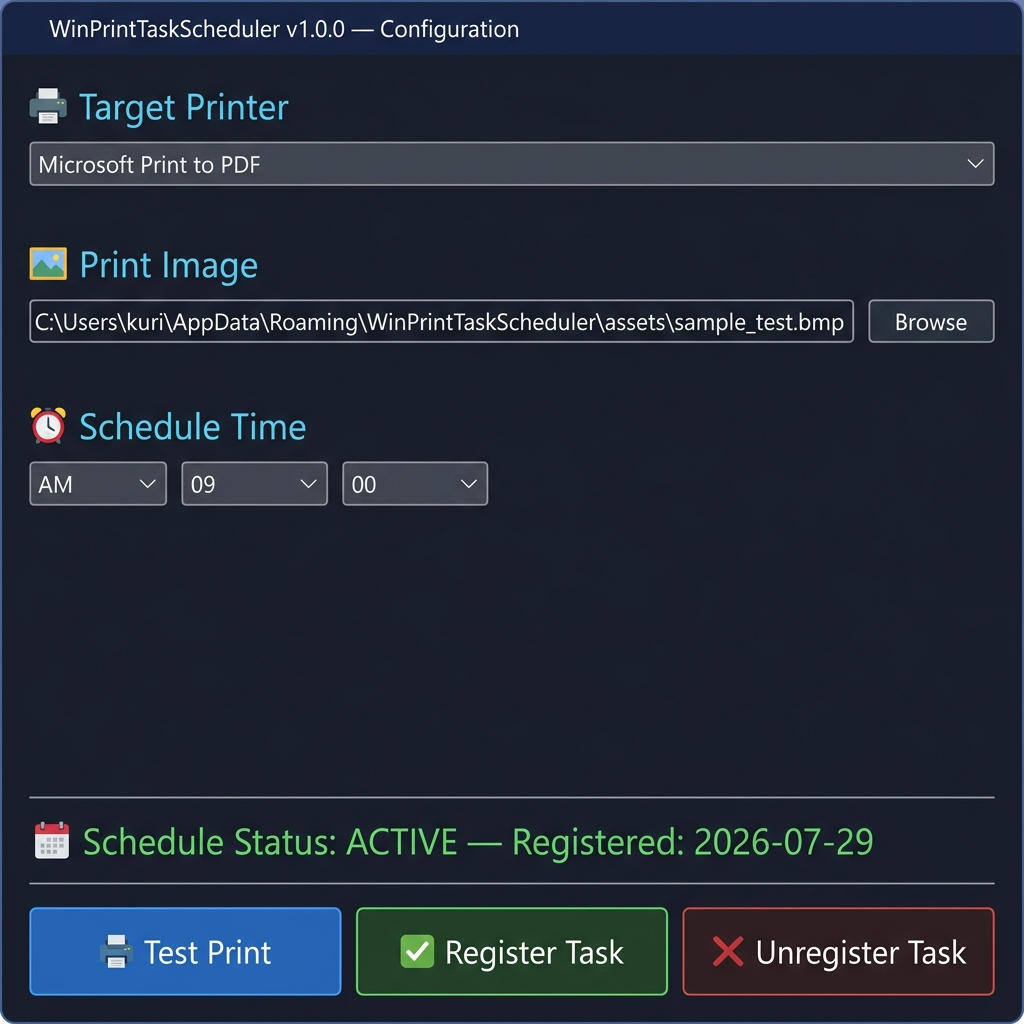
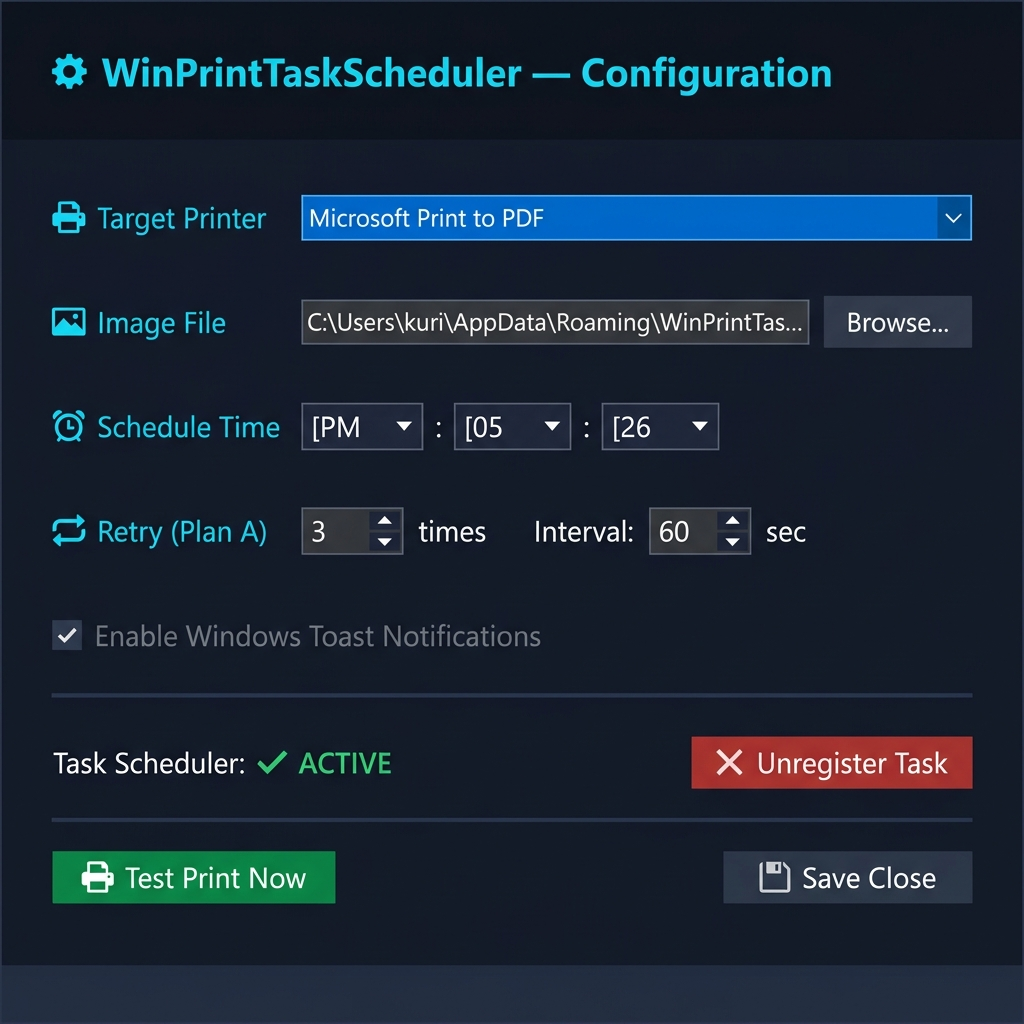
feat: 실제 실행 UI 스크린샷으로 교체 + 미리보기 섹션 최상단 이동 + callout 설명 업데이트

diff --git a/wintaskscheduler/index.html b/wintaskscheduler/index.html
@@ -42,7 +42,6 @@
         <strong>100% 무의존성 단일 .exe 파일</strong> 스케줄러입니다.<br>
         프린터 헤드 막힘 방지 및 노즐 유지보수를 완전 자동화합니다.
       </p>
-
       <div class="cta-group">
         <a href="releases/WinPrintTaskScheduler_v1.0.0.zip" class="btn btn-primary" id="btn-download-zip">
           📦 v1.0.0 압축 패키지 다운로드 (.zip)
@@ -51,7 +50,76 @@
     </div>
   </section>
 
-  <!-- Features -->
+  <!-- ① UI Preview — FIRST SECTION after hero -->
+  <section class="ui-preview" id="preview">
+    <div class="container">
+      <div class="section-title">
+        <h2>실행 화면 미리보기</h2>
+        <p>더블 클릭으로 열리는 환경 설정 창의 각 항목을 확인하세요.</p>
+      </div>
+
+      <div class="preview-wrapper">
+        <!-- Screenshot -->
+        <div class="screenshot-box">
+          <div class="screenshot-titlebar">
+            <span class="titlebar-dot red"></span>
+            <span class="titlebar-dot yellow"></span>
+            <span class="titlebar-dot green"></span>
+            <span class="titlebar-title">WinPrintTaskScheduler v1.0.0 — Configuration</span>
+          </div>
+          <img src="images/config_ui.png" alt="WinPrintTaskScheduler 설정 화면" class="screenshot-img">
+        </div>
+
+        <!-- Callout List -->
+        <div class="callout-list">
+          <div class="callout-item">
+            <div class="callout-num">①</div>
+            <div class="callout-body">
+              <strong>🖨 Target Printer (프린터 선택)</strong>
+              <p>PC에 연결된 모든 프린터 목록이 드롭다운으로 표시됩니다. 자동 인쇄를 수행할 대상 프린터를 선택하세요.</p>
+            </div>
+          </div>
+          <div class="callout-item">
+            <div class="callout-num">②</div>
+            <div class="callout-body">
+              <strong>🖼 Image File (인쇄 이미지)</strong>
+              <p><b>Browse</b> 버튼으로 외부 이미지를 선택하면 <code>%AppData%\assets</code>로 자동 복사되어 원본이 삭제되어도 영구 사용 가능합니다.</p>
+            </div>
+          </div>
+          <div class="callout-item">
+            <div class="callout-num">③</div>
+            <div class="callout-body">
+              <strong>⏰ Schedule Time (자동 실행 시각)</strong>
+              <p><b>AM/PM</b>, <b>시(01~12)</b>, <b>분(00~59)</b> 세 드롭다운으로 매일 자동 인쇄가 실행될 시각을 직관적으로 지정합니다.</p>
+            </div>
+          </div>
+          <div class="callout-item">
+            <div class="callout-num">④</div>
+            <div class="callout-body">
+              <strong>🔁 Retry / Plan A (재시도 설정)</strong>
+              <p>프린터 오류 시 재시도 횟수(<b>times</b>)와 재시도 간격(<b>Interval</b> sec)을 설정합니다. 프린터가 일시적으로 오프라인이어도 자동 복구됩니다.</p>
+            </div>
+          </div>
+          <div class="callout-item">
+            <div class="callout-num">⑤</div>
+            <div class="callout-body">
+              <strong>📅 Task Scheduler Status (스케줄 상태)</strong>
+              <p>녹색 <b>✅ ACTIVE</b>: 스케줄이 등록되어 매일 자동 인쇄 중.<br>빨간 <b>⛔ INACTIVE</b>: 미등록 상태, Register Task 버튼으로 등록하세요.</p>
+            </div>
+          </div>
+          <div class="callout-item">
+            <div class="callout-num">⑥</div>
+            <div class="callout-body">
+              <strong>🖨 Test Print / 💾 Save & Close</strong>
+              <p><b>Test Print Now</b>: 지금 즉시 테스트 인쇄를 실행합니다.<br><b>Save & Close</b>: 변경된 설정을 저장하고 창을 닫습니다.</p>
+            </div>
+          </div>
+        </div>
+      </div>
+    </div>
+  </section>
+
+  <!-- ② Features -->
   <section class="features" id="features">
     <div class="container">
       <div class="section-title">
@@ -94,7 +162,7 @@
     </div>
   </section>
 
-  <!-- How to Use -->
+  <!-- ③ How to Use -->
   <section class="workflow" id="workflow">
     <div class="container">
       <div class="section-title">
@@ -121,75 +189,6 @@
           <div class="step-num">04</div>
           <h3>[Register Task] 클릭</h3>
           <p>스케줄 등록 즉시 매일 지정 시각에 자동 인쇄가 시작됩니다.</p>
-        </div>
-      </div>
-    </div>
-  </section>
-
-  <!-- UI Preview Section -->
-  <section class="ui-preview" id="preview">
-    <div class="container">
-      <div class="section-title">
-        <h2>실행 화면 미리보기</h2>
-        <p>더블 클릭으로 열리는 환경 설정 창의 각 항목을 확인하세요.</p>
-      </div>
-
-      <div class="preview-wrapper">
-        <!-- Screenshot -->
-        <div class="screenshot-box">
-          <div class="screenshot-titlebar">
-            <span class="titlebar-dot red"></span>
-            <span class="titlebar-dot yellow"></span>
-            <span class="titlebar-dot green"></span>
-            <span class="titlebar-title">WinPrintTaskScheduler v1.0.0 — Configuration</span>
-          </div>
-          <img src="images/config_ui.png" alt="WinPrintTaskScheduler 설정 화면" class="screenshot-img">
-        </div>
-
-        <!-- Callout List -->
-        <div class="callout-list">
-          <div class="callout-item">
-            <div class="callout-num">①</div>
-            <div class="callout-body">
-              <strong>🖨 Target Printer (프린터 선택)</strong>
-              <p>PC에 연결된 모든 프린터 목록이 드롭다운으로 표시됩니다. 자동 인쇄를 수행할 대상 프린터를 선택하세요.</p>
-            </div>
-          </div>
-          <div class="callout-item">
-            <div class="callout-num">②</div>
-            <div class="callout-body">
-              <strong>🖼 Print Image (인쇄 이미지)</strong>
-              <p>인쇄할 이미지 파일을 지정합니다. <b>Browse</b> 버튼으로 외부 이미지를 선택하면 내부 안전 공간(<code>%AppData%\assets</code>)으로 자동 복사되어 원본이 삭제되어도 영구 사용 가능합니다.</p>
-            </div>
-          </div>
-          <div class="callout-item">
-            <div class="callout-num">③</div>
-            <div class="callout-body">
-              <strong>⏰ Schedule Time (자동 실행 시각)</strong>
-              <p><b>AM/PM</b>, <b>시(01~12)</b>, <b>분(00~59)</b> 드롭다운으로 매일 자동 인쇄가 실행될 정확한 시각을 직관적으로 지정합니다.</p>
-            </div>
-          </div>
-          <div class="callout-item">
-            <div class="callout-num">④</div>
-            <div class="callout-body">
-              <strong>📅 Schedule Status (스케줄 상태)</strong>
-              <p>현재 Windows 작업 스케줄러 등록 여부와 최초 등록 날짜를 실시간으로 표시합니다. 녹색 <b>ACTIVE</b>는 정상 등록 상태를 의미합니다.</p>
-            </div>
-          </div>
-          <div class="callout-item">
-            <div class="callout-num">⑤</div>
-            <div class="callout-body">
-              <strong>🖨 Test Print (즉시 테스트 인쇄)</strong>
-              <p>스케줄을 기다리지 않고 지금 바로 설정된 프린터로 테스트 인쇄를 실행합니다. 설정 확인 용도로 활용하세요.</p>
-            </div>
-          </div>
-          <div class="callout-item">
-            <div class="callout-num">⑥</div>
-            <div class="callout-body">
-              <strong>✅ / ❌ Register · Unregister Task (스케줄 등록/해제)</strong>
-              <p><b>Register Task</b>: 현재 설정을 저장하고 Windows 작업 스케줄러에 자동 등록합니다. 이 순간 프로그램이 자기 자신을 영구 공간으로 복제 설치합니다.<br><b>Unregister Task</b>: 등록된 스케줄을 해제합니다.</p>
-            </div>
-          </div>
         </div>
       </div>
     </div>
